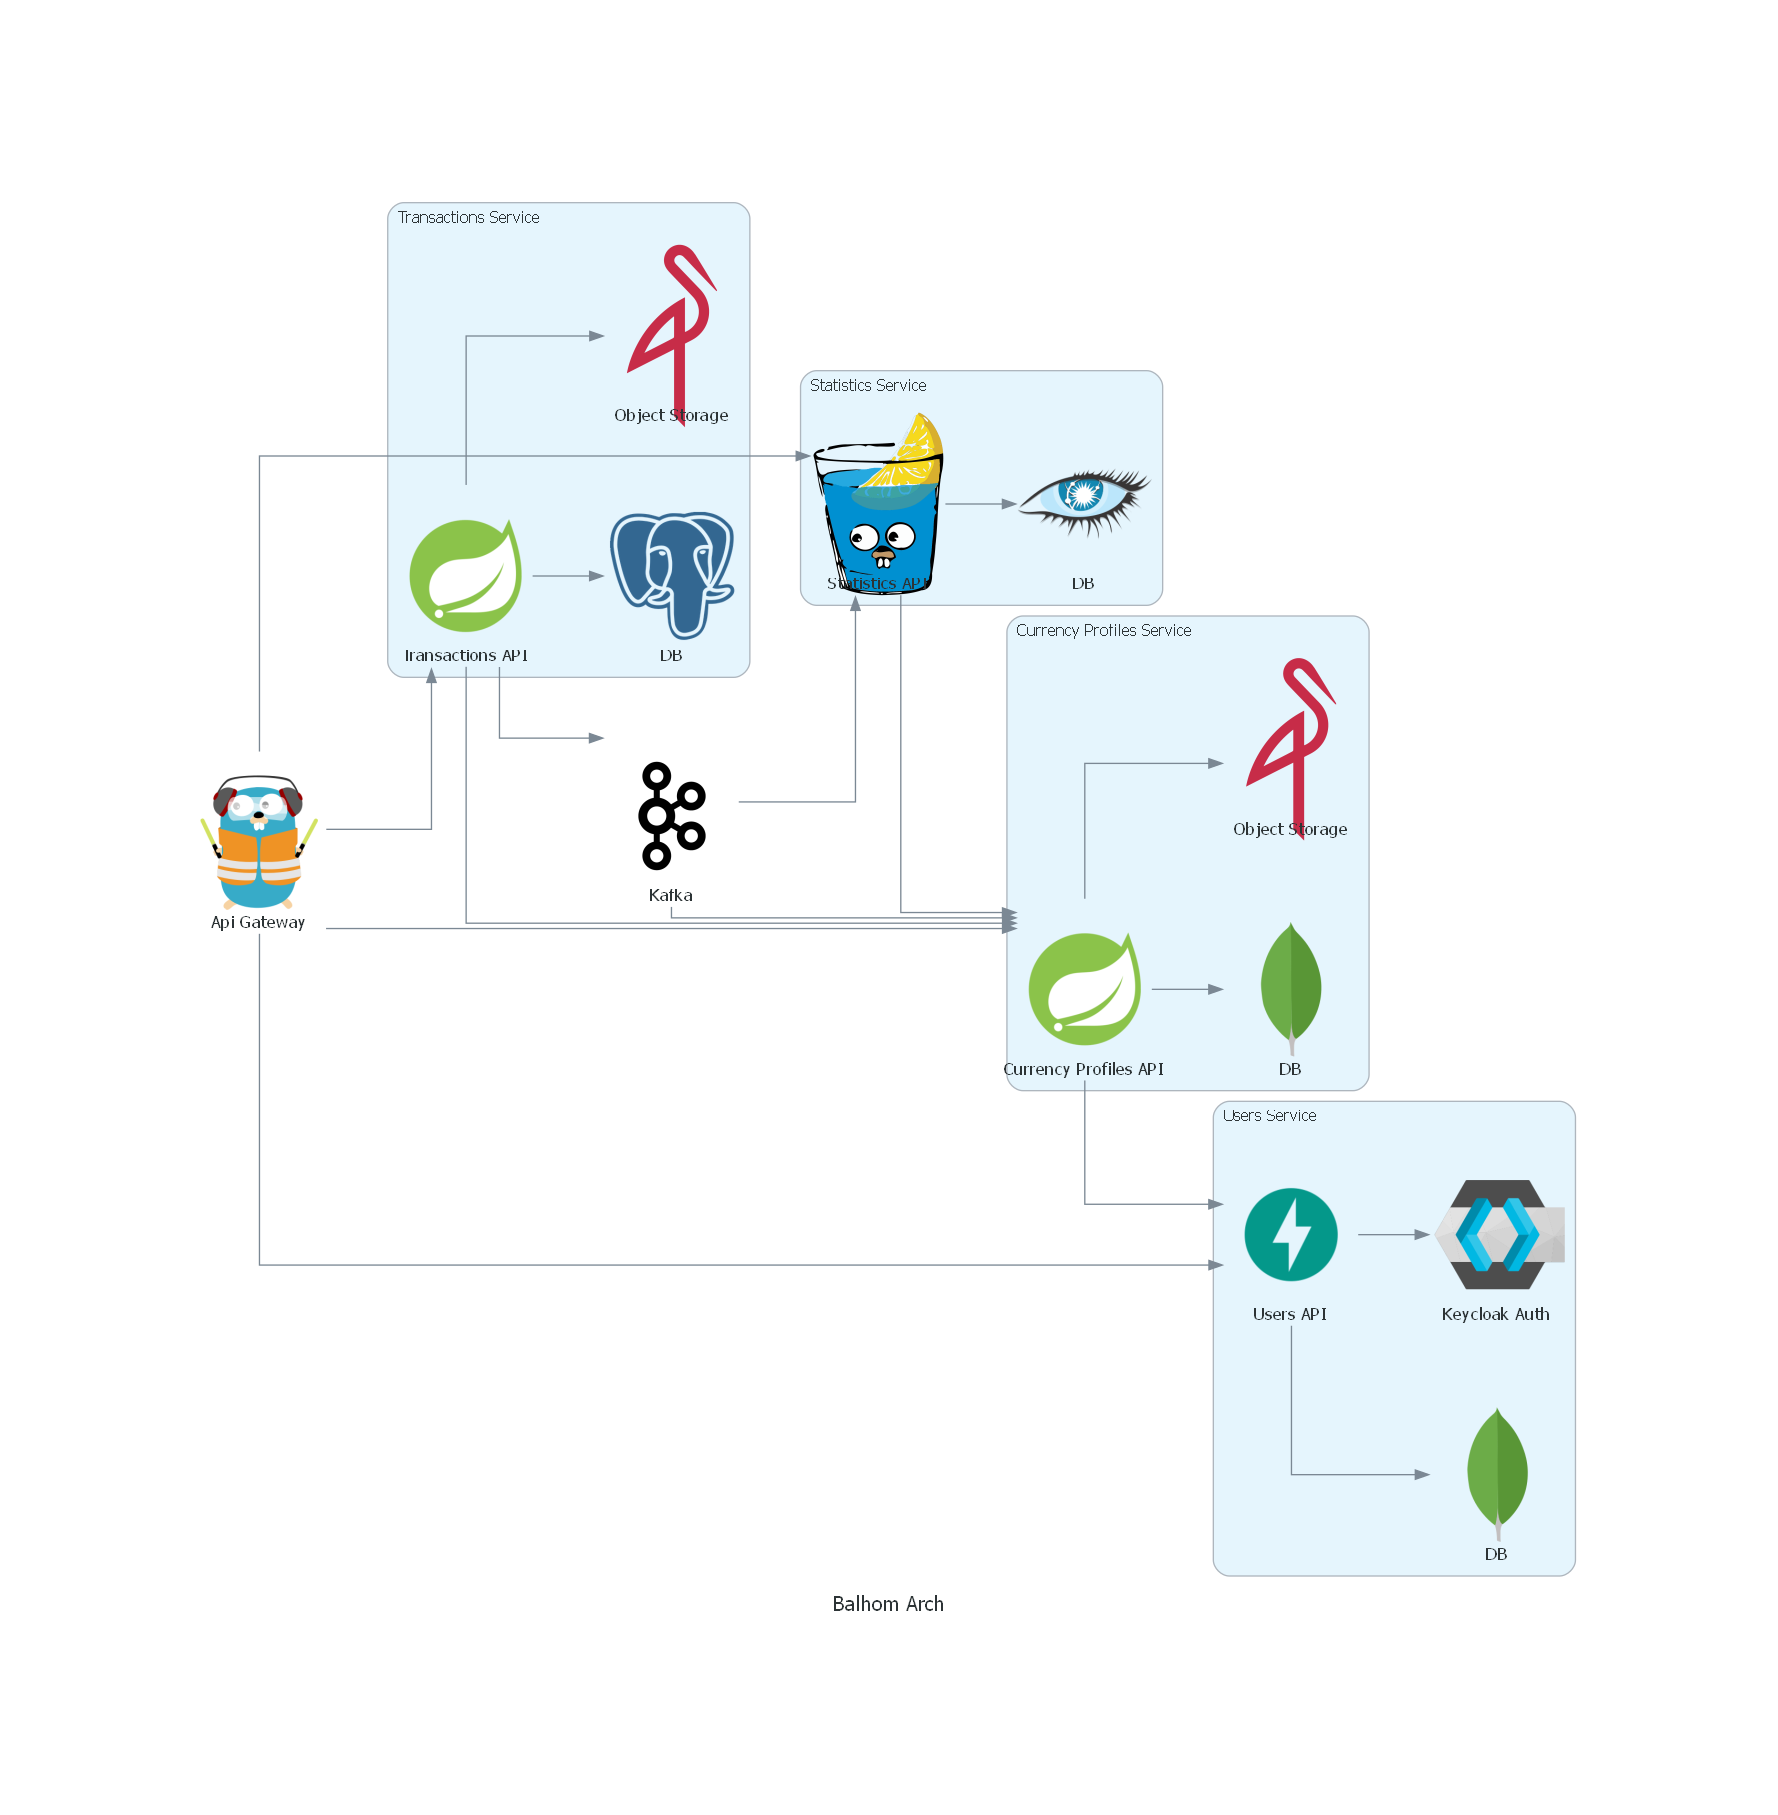
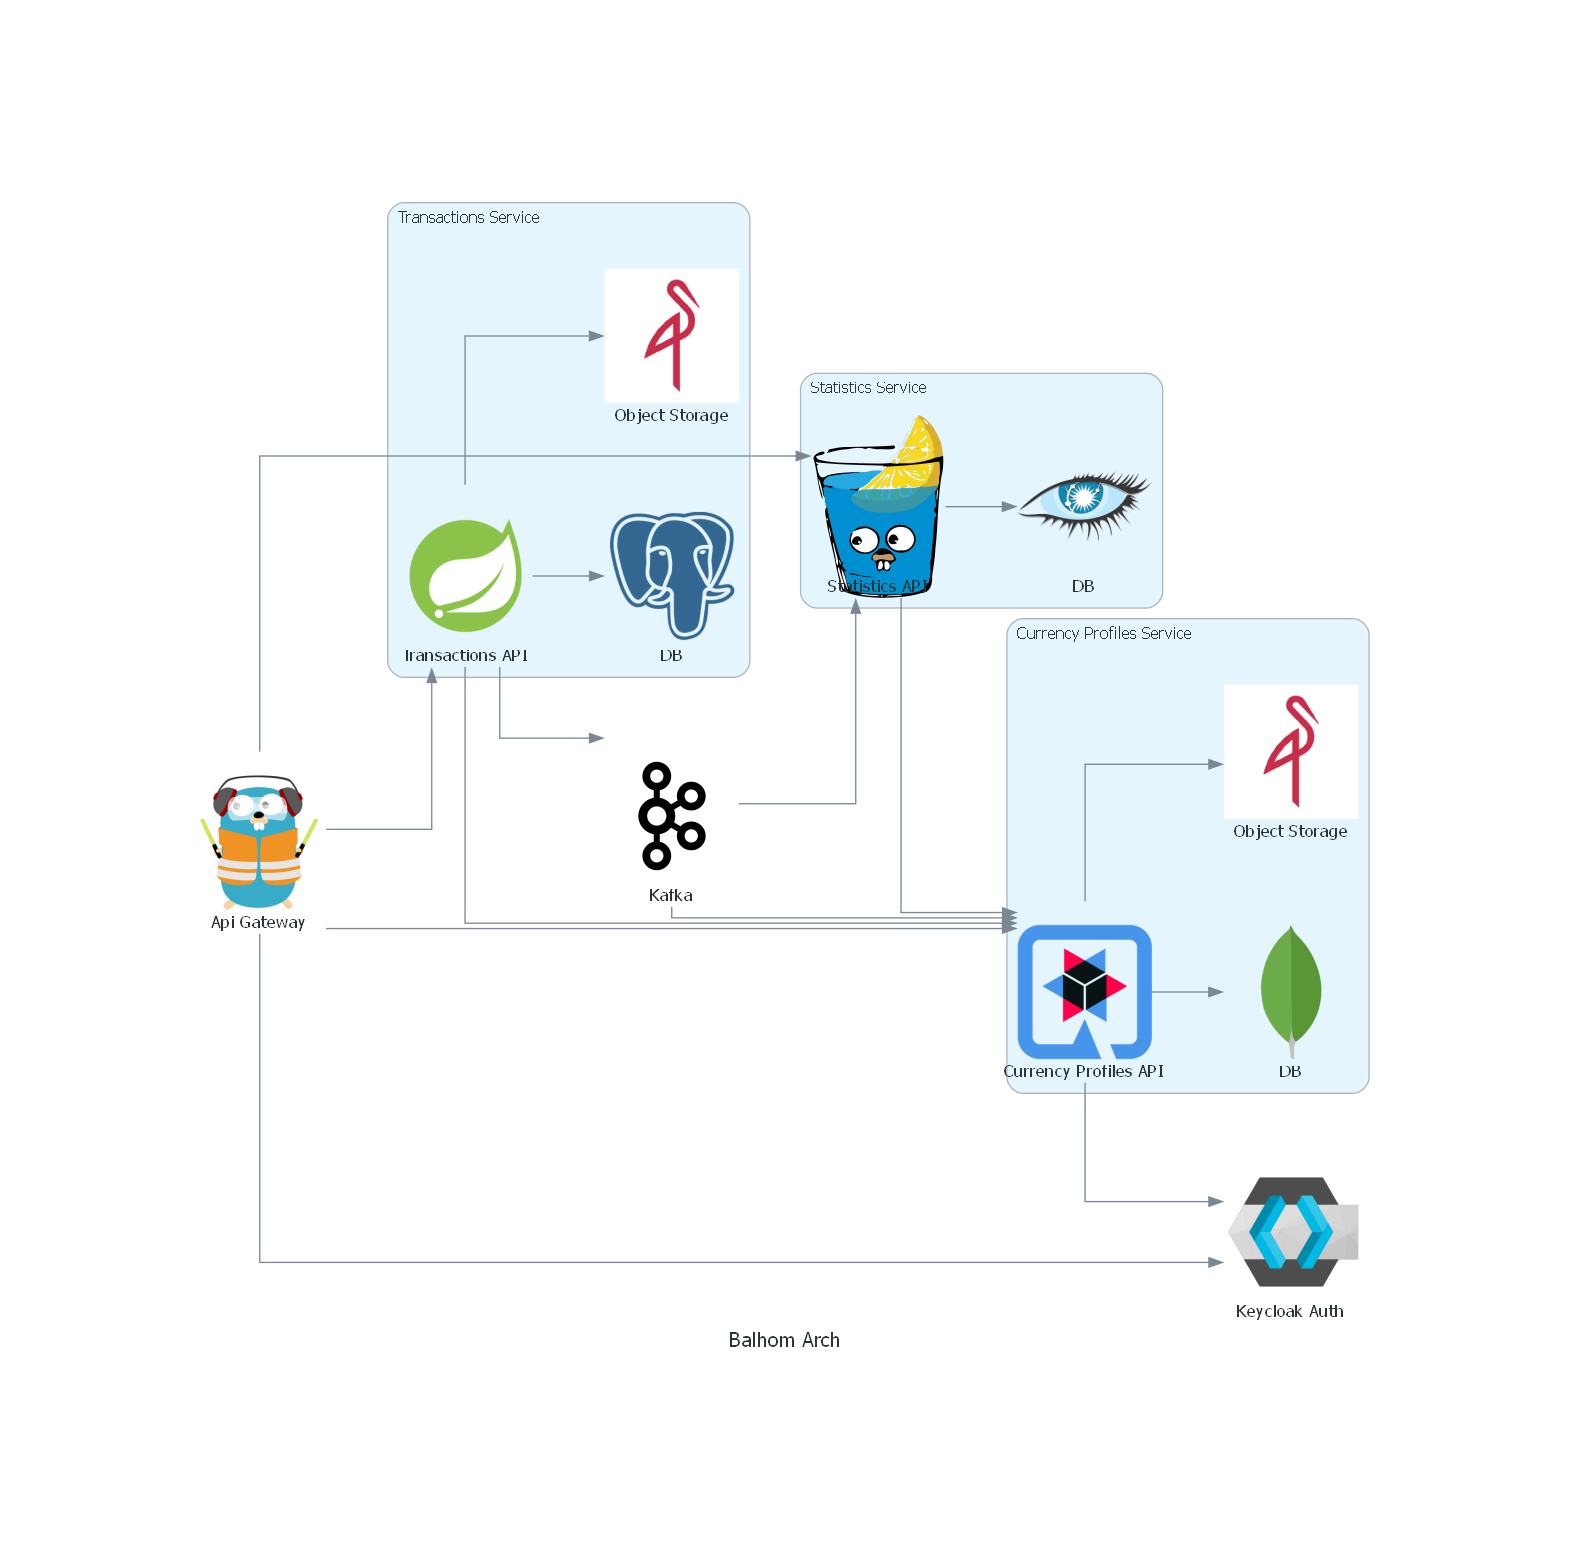
Update README and Balhom architecture diagram: rename project and replace FastAPI with Quarkus for Currency Profiles API

diff --git a/arch/balhom_arch.py b/arch/balhom_arch.py
@@ -3,10 +3,8 @@ from urllib.request import urlretrieve
 from diagrams import Cluster, Diagram
 from diagrams.onprem.database import Postgresql, Cassandra, Mongodb
 from diagrams.onprem.network import Traefik
-from diagrams.onprem.compute import Server
 from diagrams.custom import Custom
-from diagrams.firebase.develop import Authentication
-from diagrams.programming.framework import Spring, FastAPI
+from diagrams.programming.framework import Spring, Quarkus
 
 # Keycloak
 keycloak_url = "https://upload.wikimedia.org/wikipedia/commons/2/29/Keycloak_Logo.png"
@@ -19,7 +17,7 @@ kafka_icon = "kafka.png"
 urlretrieve(kafka_url, kafka_icon)
 
 # MinIO
-minio_url = "https://min.io/resources/img/logo/MINIO_Bird.png"
+minio_url = "https://avatars.githubusercontent.com/u/695951?s=200&v=4"
 minio_icon = "minio.png"
 urlretrieve(minio_url, minio_icon)
 
@@ -32,7 +30,7 @@ with Diagram("Balhom Arch", show=True):
 
     # Currency Profiles Cluster
     with Cluster("Currency Profiles Service"):
-        currency_profiles_api = Spring("Currency Profiles API")
+        currency_profiles_api = Quarkus("Currency Profiles API")
         currency_profiles_db = Mongodb("DB")
         currency_profiles_object_storage = Custom("Object Storage", minio_icon)
 
@@ -55,19 +53,13 @@ with Diagram("Balhom Arch", show=True):
 
         statistics_api >> statistics_db
 
-    with Cluster("Users Service"):
-        users_api = FastAPI("Users API")
-        users_db = Mongodb("DB")
-        keycloak_auth = Custom("Keycloak Auth", keycloak_icon)
-
-        users_api >> users_db
-        users_api >> keycloak_auth
+    keycloak_auth = Custom("Keycloak Auth", keycloak_icon)
 
     api_gateway = Traefik("Api Gateway")
 
     kafka = Custom("Kafka", kafka_icon)
 
-    api_gateway >> users_api
+    api_gateway >> keycloak_auth
     api_gateway >> currency_profiles_api
     api_gateway >> transactions_api
     api_gateway >> statistics_api
@@ -76,6 +68,6 @@ with Diagram("Balhom Arch", show=True):
     kafka >> currency_profiles_api
     kafka >> statistics_api
 
-    currency_profiles_api >> users_api
+    currency_profiles_api >> keycloak_auth
     transactions_api >> currency_profiles_api
     statistics_api >> currency_profiles_api

diff --git a/README.md b/README.md
@@ -1,1 +1,1 @@
-# balhom-docs
+# Balhom Docs
